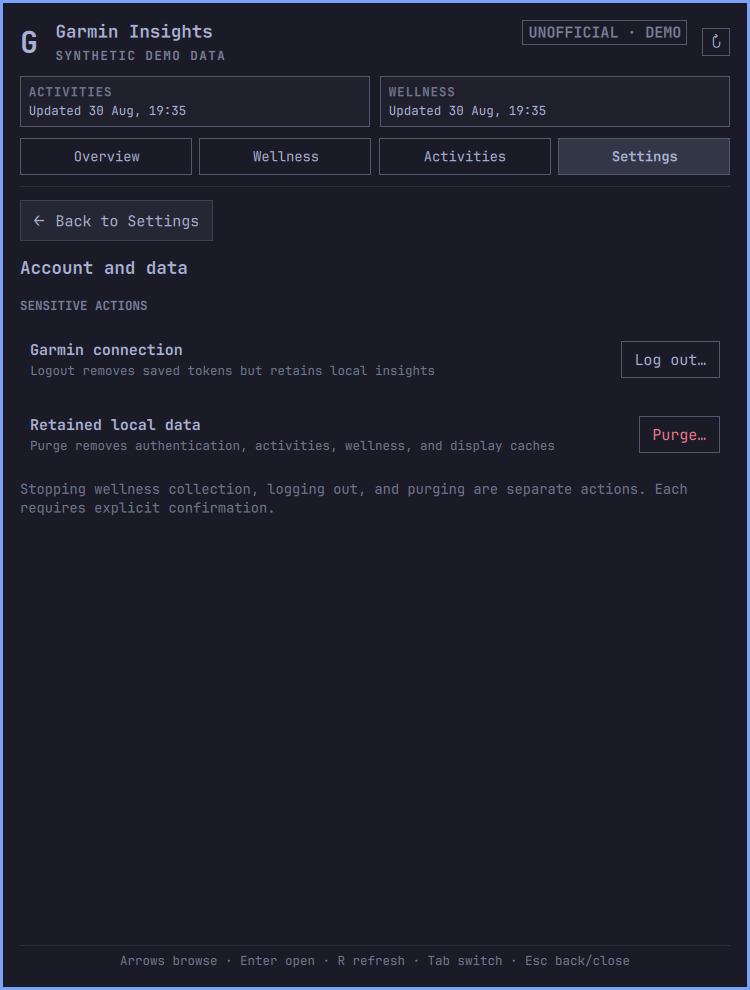
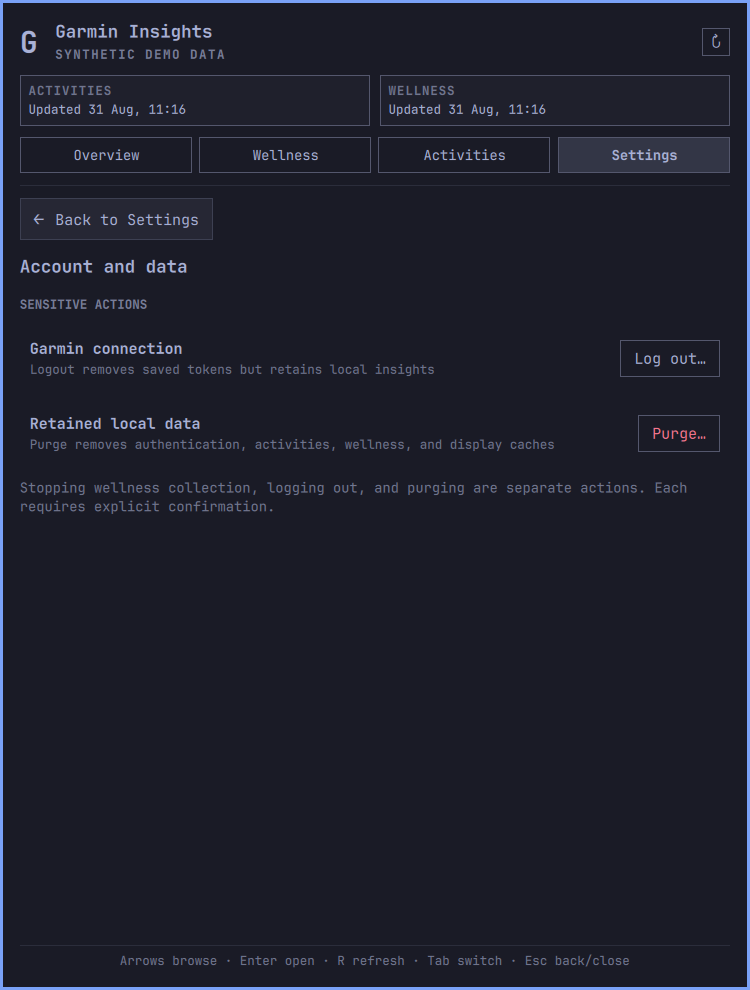
Remove unofficial panel badge

diff --git a/Panel.qml b/Panel.qml
@@ -354,7 +354,6 @@ Panel {
             width: parent.width
             title: "Garmin Insights"
             meta: root.service ? root.service.statusText : "Service loading"
-            detail: root.service && root.service.demoMode ? "UNOFFICIAL · DEMO" : "UNOFFICIAL"
             foreground: root.foreground
             fontFamily: root.fontFamily
             iconComponent: Component {

diff --git a/PanelShell.qml b/PanelShell.qml
@@ -323,7 +323,6 @@ Panel {
           width: parent.width
           title: "Garmin Insights"
           meta: root.service ? root.service.statusText : "Service loading"
-          detail: root.service && root.service.demoMode ? "UNOFFICIAL · DEMO" : "UNOFFICIAL"
           foreground: root.foreground
           fontFamily: root.fontFamily
           iconComponent: Component {

diff --git a/tests/test_qml_layout.py b/tests/test_qml_layout.py
@@ -89,6 +89,14 @@ def test_phase_six_header_refresh_is_persistent_and_accessible() -> None:
     assert 'if (text === "r" || text === "R") root.primaryAction()' in shell
 
 
+def test_panel_headers_omit_unofficial_badge() -> None:
+    production_shell = (ROOT / "PanelShell.qml").read_text(encoding="utf-8")
+    legacy_panel = (ROOT / "Panel.qml").read_text(encoding="utf-8")
+
+    assert "UNOFFICIAL" not in production_shell
+    assert "UNOFFICIAL" not in legacy_panel
+
+
 def test_phase_six_activities_preserve_contracts_and_drilldown_selection() -> None:
     activities = (ROOT / "ActivitiesView.qml").read_text(encoding="utf-8")
 
